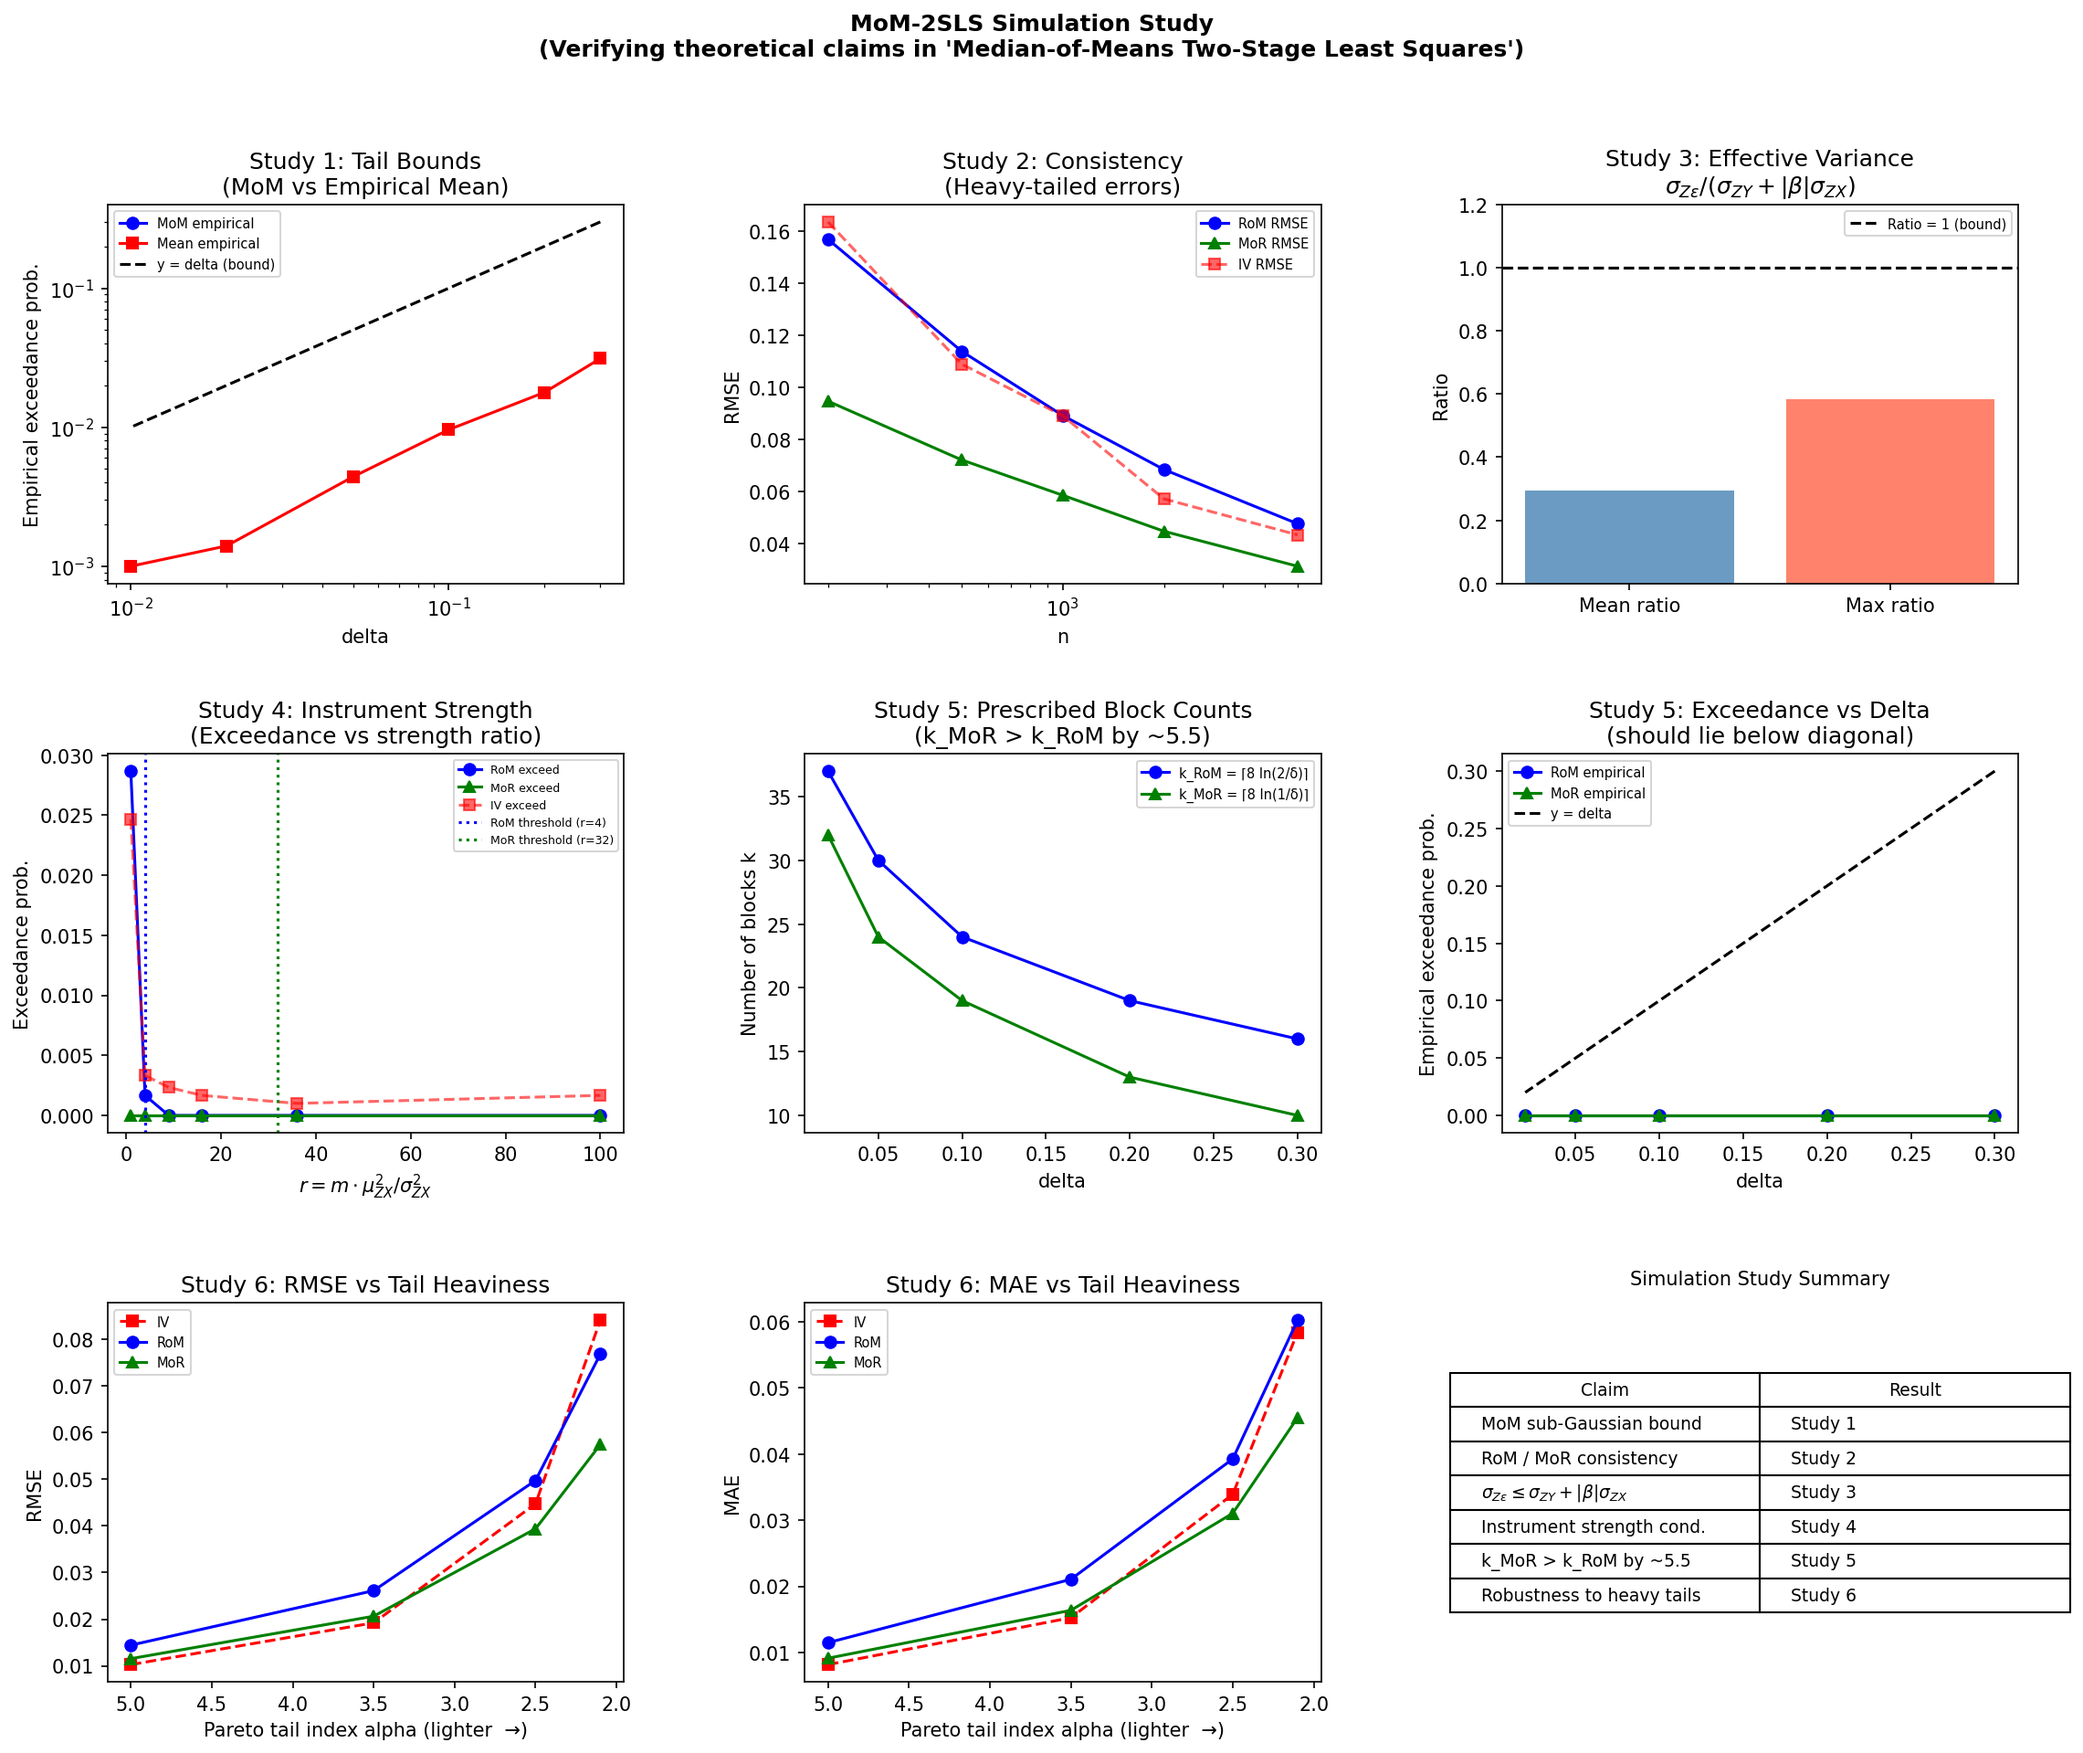
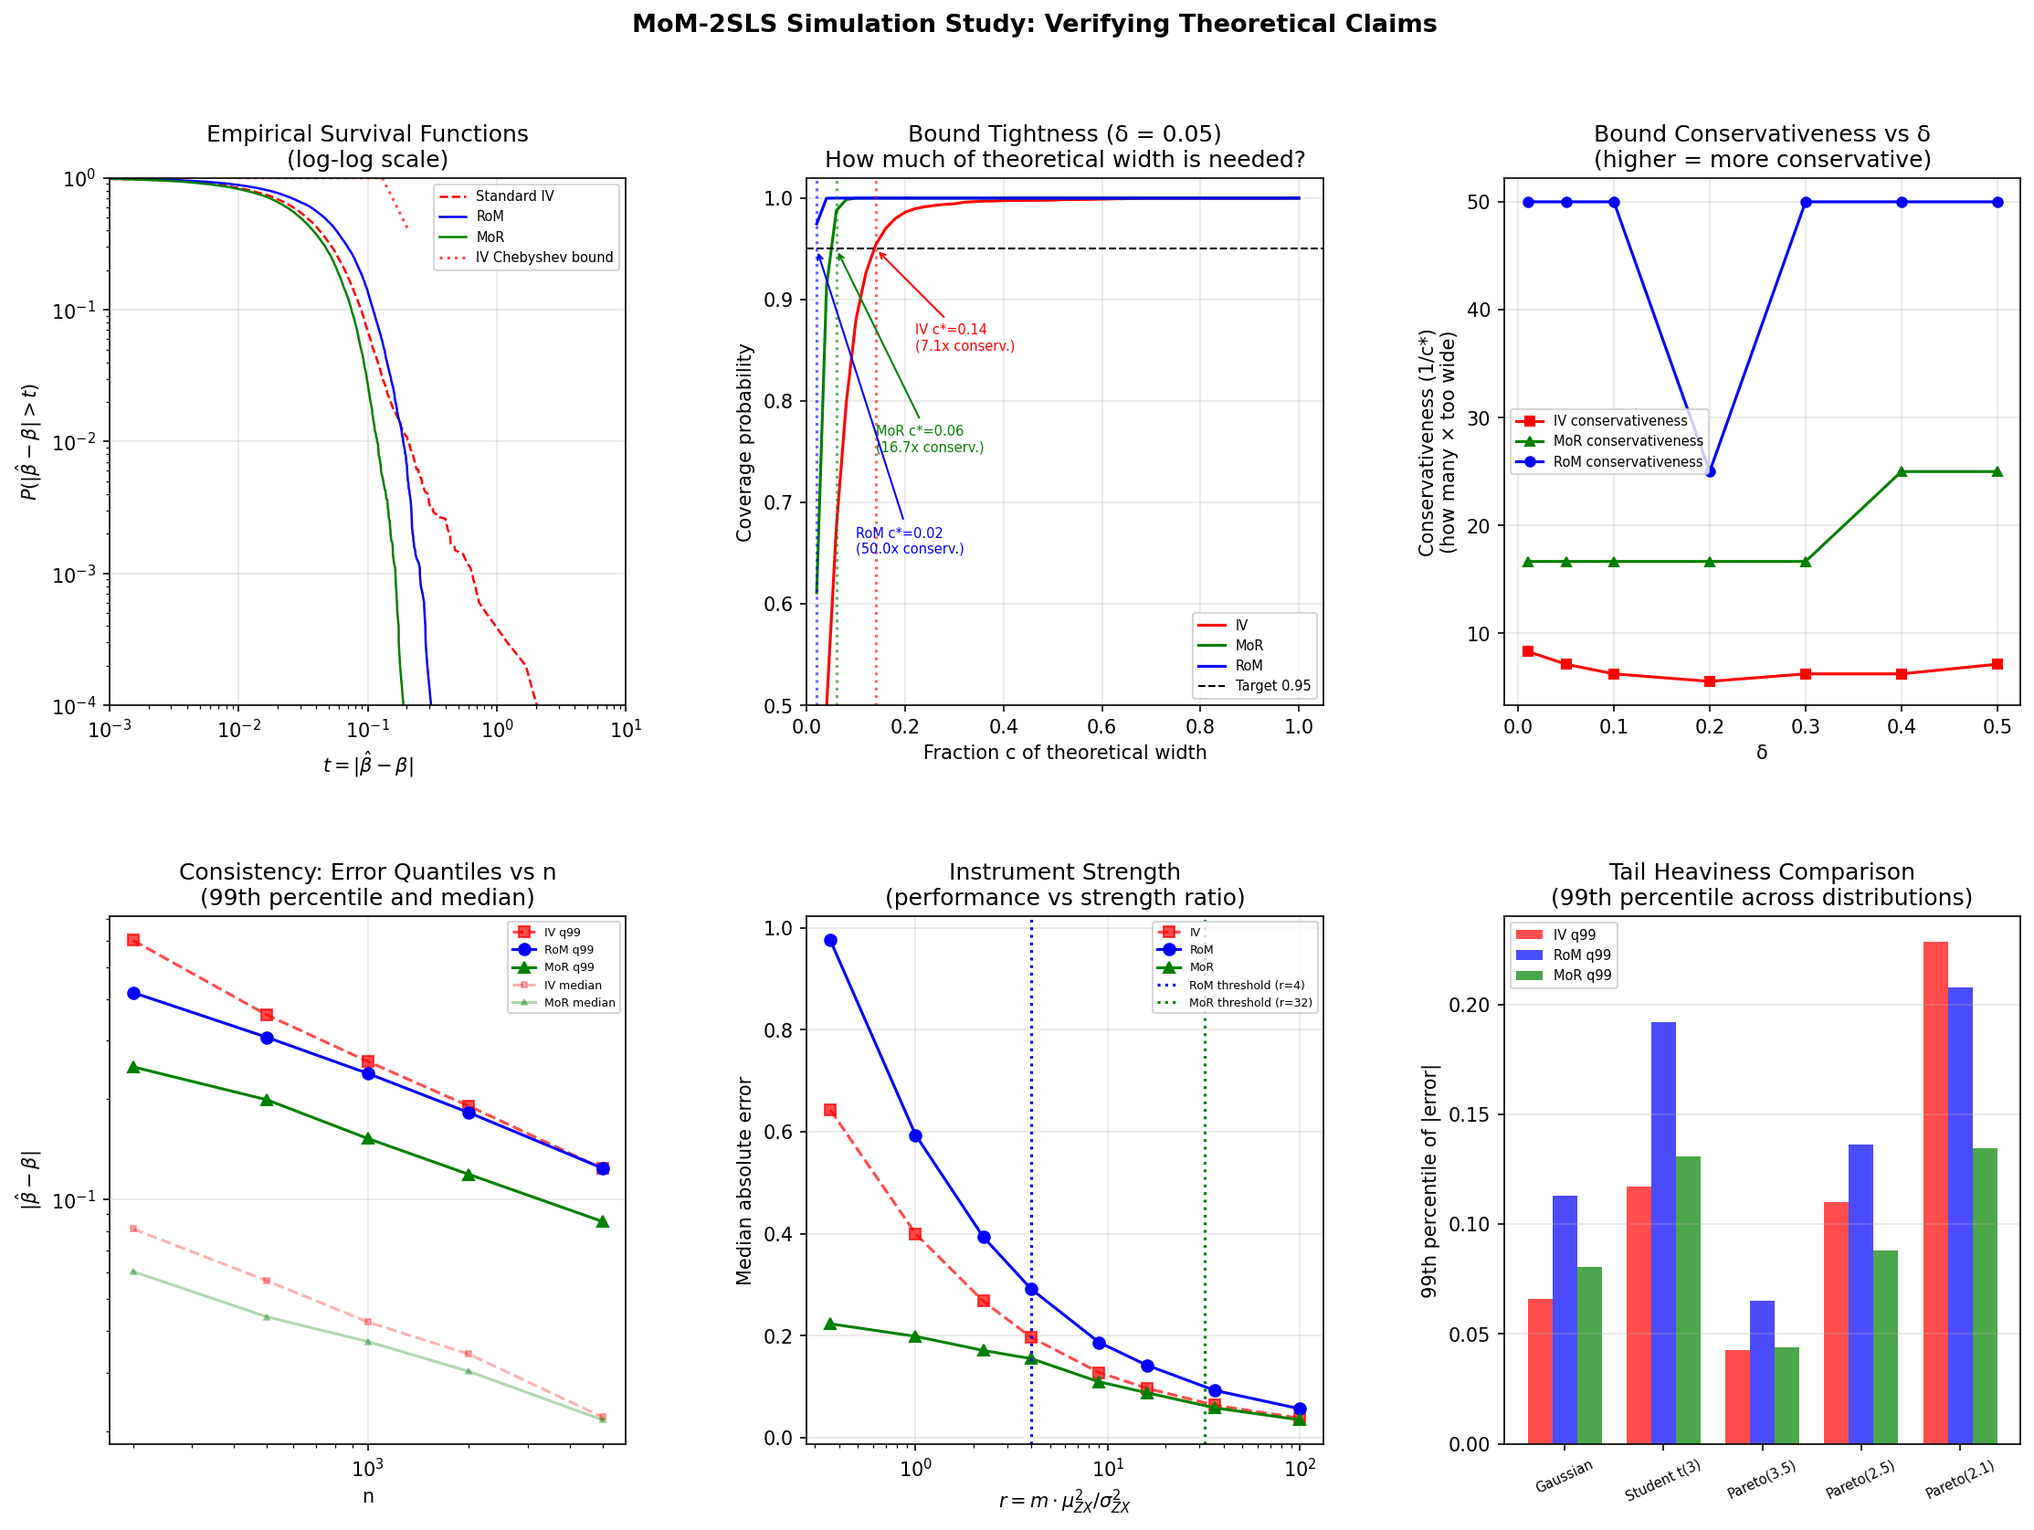
update

diff --git a/Code/Univariate_MoM.py b/Code/Univariate_MoM.py
@@ -850,4 +850,4 @@ if __name__ == "__main__":
     print("ALL STUDIES COMPLETE — generating figures...")
 
     make_plots(res1, res2a, res2b, res3, res4, res5,
-               output_path="simulation_results.png")
+               output_path="Code\simulation_results.png")
